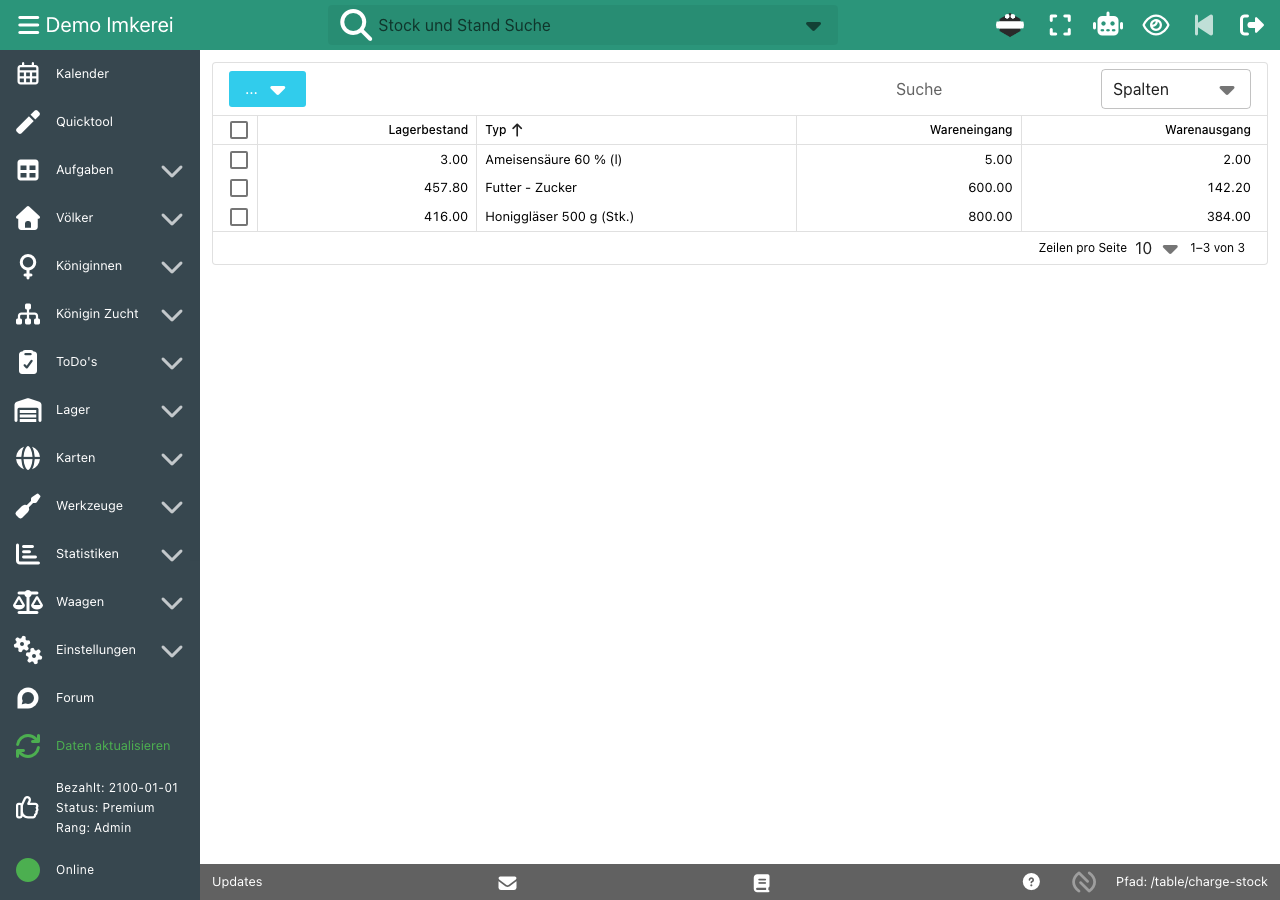
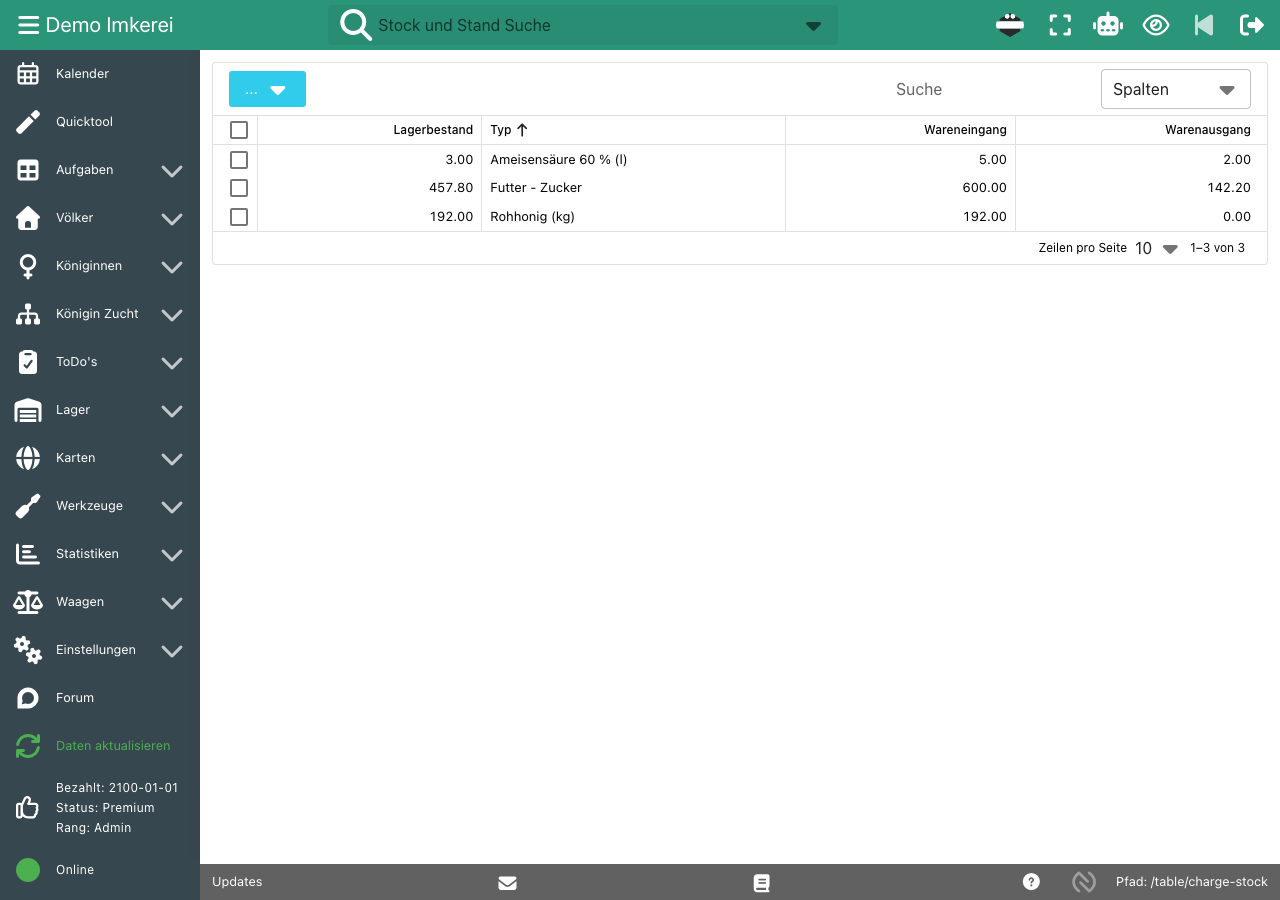
fix(info): book harvests as raw honey into stock in the demo

Changed region(s): [[0.3125, 0.1244, 0.5, 0.2489], [0.7188, 0.1244, 0.8125, 0.2489], [0.9375, 0.2178, 0.9688, 0.2489]]

diff --git a/packages/btree_info/src/pages/de/features/organic-beekeeping.md b/packages/btree_info/src/pages/de/features/organic-beekeeping.md
@@ -12,8 +12,8 @@ Wir führen unsere eigene Bio-Dokumentation mit b.tree. Lager, Behandlungen, Fü
 
 ## So funktioniert es
 
-- **Lager mit Chargennummern:** Buche jeden Wareneingang mit Chargennummer, Mindesthaltbarkeitsdatum, Preis und Notiz, zum Beispiel Zucker, Behandlungsmittel oder Honiggläser. Die Lagertabelle zeigt Lagerbestand, Wareneingang und Warenausgang.
-- **Lagerbuchungen aus deinen Aufgaben:** Gib einer Fütterungs-, Behandlungs- oder Ernteart einen Lagerverbrauch, zum Beispiel 0,79 kg Zucker pro Liter 3:2-Zuckerwasser oder 0,2 l Ameisensäure pro Volk. Jede erledigte Aufgabe bucht ihre Lagerbuchung, und die Lagerbuchung verlinkt auf die Aufgabe und das Volk.
+- **Lager mit Chargennummern:** Buche jeden Wareneingang mit Chargennummer, Mindesthaltbarkeitsdatum, Preis und Notiz, zum Beispiel Zucker oder Behandlungsmittel. Die Lagertabelle zeigt Lagerbestand, Wareneingang und Warenausgang.
+- **Lagerbuchungen aus deinen Aufgaben:** Gib einer Fütterungs- oder Behandlungsart einen Lagerverbrauch, zum Beispiel 0,79 kg Zucker pro Liter 3:2-Zuckerwasser oder 0,2 l Ameisensäure pro Volk. Gib einer Ernteart einen Lagerverbrauch, und der geerntete Rohhonig kommt ins Lager. Jede erledigte Aufgabe bucht ihre Lagerbuchung, und die Lagerbuchung verlinkt auf die Aufgabe und das Volk.
 - **Inventur:** Zähle dein Lager und trage den gezählten Bestand als Inventur ein. b.tree bucht die Differenz.
 - **Behandlungen und Fütterungen pro Volk:** Datum, Menge, Krankheit und Wartezeit werden für jedes Volk erfasst und auf seiner [digitalen Stockkarte](/de/features/hive-records/) angezeigt.
 - **Wachskreislauf mit Losen:** Lagere Eigenwachs aus Deckelwachs oder Altwaben mit Herkunft und Herkunftsvölkern ein. Buche Verarbeitung oder Lohnverarbeitung zu Mittelwänden mit Verarbeiter und Auftragsnummer. b.tree berechnet den Verarbeitungsverlust. Fehler korrigierst du mit einer Gegenbuchung, statt sie zu löschen.
@@ -25,15 +25,15 @@ Die Lagerübersicht mit Lagerbestand, Wareneingang und Warenausgang:
 
 <div class="shots">
 
-![Lagertabelle mit Zucker, Ameisensäure und Honiggläsern](../../../images/features/stock-de-desktop.png)
+![Lagertabelle mit Zucker, Ameisensäure und Rohhonig](../../../images/features/stock-de-desktop.png)
 
 </div>
 
-Lagerbuchungen: Lieferungen mit Chargennummer und MHD und die Buchungen aus Ernten und Behandlungen mit Link zum jeweiligen Volk:
+Lagerbuchungen für Zucker: die Lieferung mit Chargennummer und MHD und die Fütterungen, die den Zucker ausbuchen, mit Link zum jeweiligen Volk:
 
 <div class="shots">
 
-![Lagerbuchungen mit Chargennummern, MHD und der Aufgabe jeder Buchung](../../../images/features/stock-movements-de-desktop.png)
+![Lagerbuchungen für Zucker mit Chargennummer, MHD und der Fütterung jedes Volkes](../../../images/features/stock-movements-de-desktop.png)
 
 </div>
 

diff --git a/packages/btree_info/src/pages/features/organic-beekeeping.md b/packages/btree_info/src/pages/features/organic-beekeeping.md
@@ -12,8 +12,8 @@ We keep our own organic beekeeping records with b.tree. Stock, treatments, feedi
 
 ## How it works
 
-- **Stock with lot numbers:** Book each goods receipt with lot number, best-before date, price and note, for example sugar, treatment agents or honey jars. The stock table shows the current stock, goods receipts and outgoing goods.
-- **Stock movements from your tasks:** Give a feeding, treatment or harvest type a stock use, for example 0.79 kg sugar per liter of 3:2 sugar water or 0.2 l formic acid per hive. Each done task books its stock movement, and the movement links back to the task and the hive.
+- **Stock with lot numbers:** Book each goods receipt with lot number, best-before date, price and note, for example sugar or treatment agents. The stock table shows the current stock, goods receipts and outgoing goods.
+- **Stock movements from your tasks:** Give a feeding or treatment type a stock use, for example 0.79 kg sugar per liter of 3:2 sugar water or 0.2 l formic acid per hive. Give a harvest type a stock use, and the harvested raw honey goes into stock. Each done task books its stock movement, and the movement links back to the task and the hive.
 - **Inventory:** Count your storage and enter the counted total as an inventory. b.tree books the difference.
 - **Treatments and feedings per hive:** Date, amount, disease and waiting time are recorded for each colony and shown on its [digital hive record](/features/hive-records/).
 - **Wax cycle with lots:** Store own wax from cappings or old combs with origin and source colonies. Book processing or contract processing into foundation with the processor and the order number. b.tree calculates the processing loss. Mistakes are reversed with a correction entry, not deleted.
@@ -25,15 +25,15 @@ The stock overview with current stock, goods receipts and outgoing goods:
 
 <div class="shots">
 
-![Stock table with sugar, formic acid and honey jars](../../images/features/stock-en-desktop.png)
+![Stock table with sugar, formic acid and raw honey](../../images/features/stock-en-desktop.png)
 
 </div>
 
-Stock movements: deliveries with lot number and best-before date, and the bookings from harvests and treatments with a link to each hive:
+Stock movements of sugar: the delivery with lot number and best-before date, and the feedings that book the sugar out, with a link to each hive:
 
 <div class="shots">
 
-![Stock movements with lot numbers, best-before dates and the source task of each booking](../../images/features/stock-movements-en-desktop.png)
+![Stock movements of sugar with lot number, best-before date and the feeding of each hive](../../images/features/stock-movements-en-desktop.png)
 
 </div>
 
